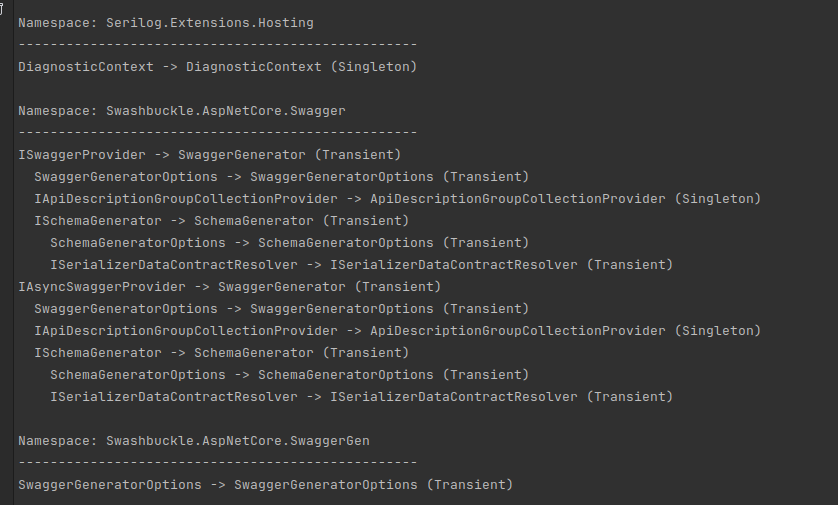
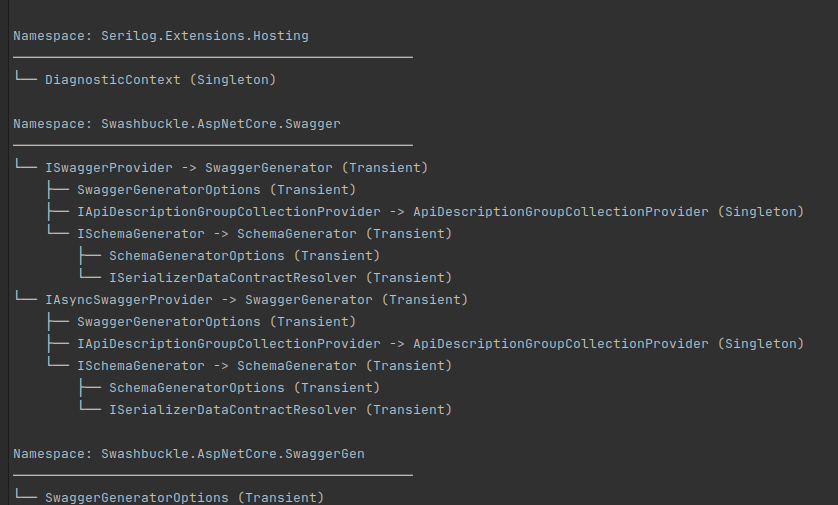
Refresh documentation

Changed region(s): [[0.0, 0.2079, 0.9618, 0.8317], [0.0, 0.8614, 0.6205, 1.0], [0.0, 0.0297, 0.4964, 0.1782]]

diff --git a/DependencyInjection.Visualization/DependencyTree.cs b/DependencyInjection.Visualization/DependencyTree.cs
@@ -19,8 +19,13 @@ public class DependencyTree
     /// <summary>
     /// Initializes a new instance.
     /// </summary>
+    /// <remarks>The 'user code' spoken of in the bool argument more strictly means
+    /// 'all the types with namespaces that start with the first portion of the name of the entry assembly'.
+    /// Say your solution contains the Foobar.WebUI, Foobar.Core and Foobar.Tests projects.
+    /// The tree will then only care about types starting with a Foobar.* namespace,
+    /// such as Foobar.Utils.Http.MyCustomApiClient.</remarks>
     /// <param name="services">The <see cref="IServiceCollection"/> to analyze.</param>
-    /// <param name="onlyUserCode">If true, only includes types from the project's namespace.</param>
+    /// <param name="onlyUserCode">If true, only includes types from namespaces in the current projects.</param>
     public DependencyTree(IServiceCollection services, bool onlyUserCode)
     {
         _depthAnalyser = new(_treeViewer);
@@ -33,7 +38,7 @@ public class DependencyTree
     /// Retrieves dependency chains that meet or exceed a specified depth.
     /// </summary>
     /// <param name="minDepth">The minimum depth of chains to include. This is 1-indexed, not 0-indexed.</param>
-    /// <returns>An object containing the filtered chains and a tree view of their hierarchy.</returns>
+    /// <returns>An object containing the filtered chains and a string representation of their hierarchy.</returns>
     public DependencyChains GetRegistrationChainsByDepth(int minDepth)
     {
         return _depthAnalyser.GetRegistrationChainsByDepth(_rootNodes, minDepth, _onlyUserCode);
@@ -42,7 +47,6 @@ public class DependencyTree
     /// <summary>
     /// Generates a formatted string representation of the dependency tree.
     /// </summary>
-    /// <param name="onlyUserCode">If true, only includes types from namespaces in the current project and its directly-referenced projects.</param>
     /// <returns>A string representation of the dependency tree, grouped by namespace.</returns>
     /// /// <example>
     /// Exemplar output when all services are included:
@@ -62,15 +66,6 @@ public class DependencyTree
     /// // --------------------------------------------------
     /// // ILoggerFactory -> LoggerFactory (Singleton)
     /// //   IOptions&lt;LoggerFilterOptions&gt; -> OptionsManager&lt;LoggerFilterOptions&gt; (Singleton)
-    /// //
-    /// </code>
-    /// 
-    /// Exemplar output when only user code is analysed:
-    /// <code>
-    /// // Namespace: YourProject.Services
-    /// // --------------------------------------------------
-    /// // IFooService -> FooService (Singleton)
-    /// // IBarService -> BarService (Scoped)
     /// </code>
     /// </example>
     public string GenerateTreeView()
@@ -82,16 +77,17 @@ public class DependencyTree
     /// Retrieves the most frequently used services in the dependency tree, that is, those which are requested by other services the most.
     /// </summary>
     /// <param name="count">The number of top services to return.</param>
-    /// <returns>An enumerable of tuples containing the service type and its usage count.</returns>
+    /// <returns>A list of tuples containing the service type and its usage count.</returns>
     public List<(Type ServiceType, int UsageCount)> GetMostUsedServices(int count)
     {
         return _usageCalculator.GetMostUsedServices(_rootNodes, count, _onlyUserCode);
     }
     
     /// <summary>
-    /// Identifies services that are registered by your code but not used as dependencies by any other service.
+    /// Identifies types registered in the container that aren't requested by any other service.
     /// </summary>
-    /// <returns>An enumerable of the unused services.</returns>
+    /// <remarks>This includes cases where you register an interface (IFoobar), but only ever request concrete instances (Foobar).</remarks>
+    /// <returns>A list of the unused services.</returns>
     public List<Type> GetUnusedServices()
     {
         return _usageCalculator.GetUnusedServices(_rootNodes);

diff --git a/README.md b/README.md
@@ -1,6 +1,6 @@
 # DependencyInjection.Visualization
 
-This library provides types for visualizing and analyzing dependency injection trees in .NET applications. It helps identify deep dependency chains and presents your solution's architecture in an intuitive way.
+This library provides types for visualizing dependency hierarchies in `Microsoft.Extensions.DependencyInjection`'s `IServiceCollection`. It presents your solution's architecture in an intuitive way, helps identify deeply-nested dependency chains, and can find services which are unused, despite being registered.
 
 ### Quickstart
 
@@ -8,28 +8,36 @@ This library provides types for visualizing and analyzing dependency injection t
 using JKendall.DependencyInjection.Visualization;
 using Microsoft.Extensions.DependencyInjection;
 
-// Setup your services
+// Setup your services.
 var services = new ServiceCollection();
 services.AddTransient<IService1, Service1>();
 services.AddSingleton<IService2, Service2>();
 
-// As an extension method
+// Handles open generic registrations.
+services.AddSingleton(typeof(IFoobar<,,>), typeof(Foobar<,,>));
+
+// Quickly see the hierarchy of your IServiceCollection via an extension method.
 Console.WriteLine(services.GetDebugView());
 
-// For more control, create a DependencyTree
-var tree = new DependencyTree(services);
+// For more control, create a DependencyTree.
+// You can filter the tree to only include services defined in
+// the currently-executing assembly and those it references.
+var tree = new DependencyTree(services, onlyUserCode: false);
 
-// Generate and print the full tree
+// Generate and print the full tree.
 Console.WriteLine(tree.GenerateTreeString());
 
-// Only consider services registered in the executing assembly, or those it references
-Console.WriteLine(tree.GenerateTreeString(onlyUserCode: true));
-
-// Find and analyze dependency chains of depth 4 or more
-var deepChains = tree.GetRegistrationChainsByDepth(4, onlyUserCode: true);
+// Find deeply-nested dependency chains.
+var deepChains = tree.GetRegistrationChainsByDepth(4);
 
 Console.WriteLine($"Found {deepChains.RootNodes.Count} deep chains:");
 Console.WriteLine(deepChains.StringRepresentation);
+
+// See what services are used most frequently...
+var topFiveMostUsed = tree.GetMostUsedServices(5);
+
+// ...and which are never used, despite being registered.
+var unused = tree.GetUnusedServices();
 ```
 
 ## Example output
